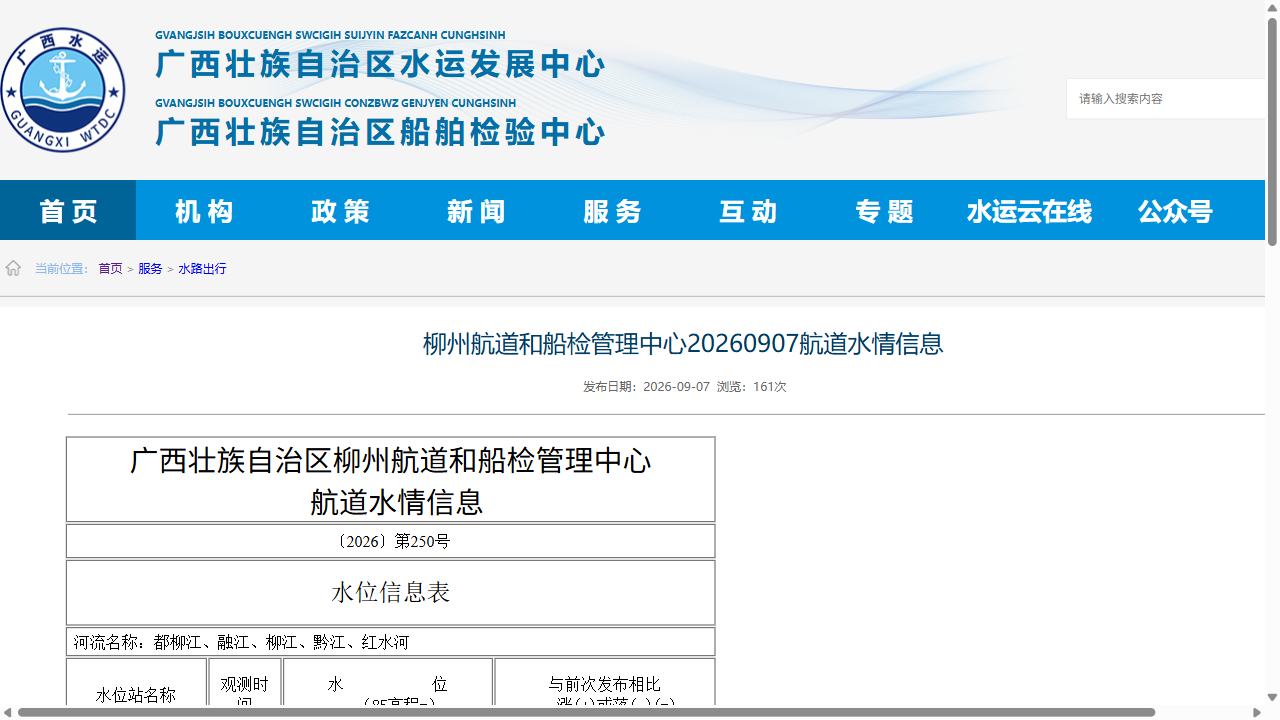
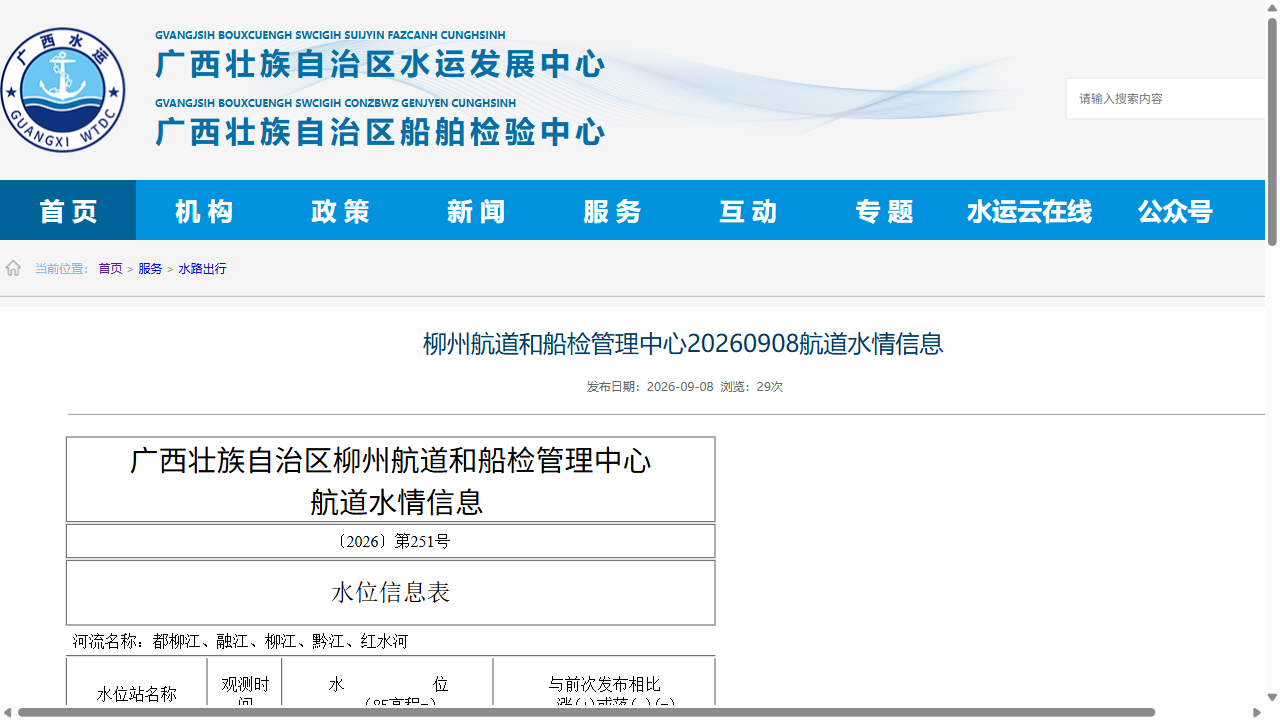
增加预警信息，有超警水位和高水位预警分级。

diff --git a/water_level_report.html b/water_level_report.html
@@ -168,20 +168,20 @@
         <div class="status-section">
             <div class="status-item">
                 <span class="status-label">上游整体情况：</span>
-                <span class="status-value status-red">
-                    水位微微上升↗
+                <span class="status-value status-blue">
+                    水位略微下降↘
                 </span>
             </div>
             <div class="status-item">
                 <span class="status-label">今日梧州水位：</span>
-                <span class="status-value status-blue">
-                    5.69m▼
+                <span class="status-value status-red">
+                    5.86m▲
                 </span>
             </div>
             <div class="status-item">
                 <span class="status-label">近2天梧州水位预报：</span>
                 <span class="status-value status-blue">
-                    5.54m~5.84m 预计水位变化不大 上下小幅波动    
+                    5.46m~5.11m 预计水位略微下降↘  
                 </span>
             </div>
         </div>
@@ -189,7 +189,7 @@
             <div class="status-item">
                 <span class="status-label">🚨水库预警：</span>
                 <span class="warningStatus-value">
-                     
+                    
                 </span>
             </div>
             <div class="status-item">
@@ -201,24 +201,24 @@
         </div>
         
         <div class="image-section">
-            <div class="image-overlay-text wz status-blue">5.69m▼</div>
-            <div class="image-overlay-text status-blue" style="position: absolute; top: 41.4%; left: 78%;">======</div>
-            <div class="image-overlay-text jk status-blue">21.94m▼</div>
+            <div class="image-overlay-text wz status-red">5.86m▲</div>
+            <div class="image-overlay-text status-red" style="position: absolute; top: 41.4%; left: 78%;">======</div>
+            <div class="image-overlay-text jk status-blue">21.75m▼</div>
             <div class="image-overlay-text status-blue" style="position: absolute; top: 41.4%; left: 65.2%;">===</div>
-            <div class="image-overlay-text wx status-red">59.50m▲</div>
-            <div class="image-overlay-text status-red" style="position: absolute; top: 18.9%; left: 23.2%;">===========</div>
-            <div class="image-overlay-text lb status-red">59.77m▲</div>
-            <div class="image-overlay-text status-red" style="position: absolute; top: 18.9%; left: 4%;">===</div>
-            <div class="image-overlay-text lc status-red">62.181m▲</div>
-            <div class="image-overlay-text status-red" style="position: absolute; top: 63.8%; left: 6%;">====</div>
-            <div class="image-overlay-text gg status-blue">33.16m▼</div>
+            <div class="image-overlay-text wx status-blue">59.38m▼</div>
+            <div class="image-overlay-text status-blue" style="position: absolute; top: 18.9%; left: 23.2%;">===========</div>
+            <div class="image-overlay-text lb status-blue">59.72m▼</div>
+            <div class="image-overlay-text status-blue" style="position: absolute; top: 18.9%; left: 4%;">===</div>
+            <div class="image-overlay-text lc status-blue">61.896m▼</div>
+            <div class="image-overlay-text status-blue" style="position: absolute; top: 63.8%; left: 6%;">====</div>
+            <div class="image-overlay-text gg status-blue">32.65m▼</div>
             <div class="image-overlay-text status-blue" style="position: absolute; top: 63.8%; left: 28.5%;">============</div>
-            <div class="image-overlay-text" style="position: absolute; top: 43%; left: 86.5%;font-size:180%"> </div>
-            <div class="image-overlay-text" style="position: absolute; top: 44%; left: 69.67%;font-size:180%"> </div>
-            <div class="image-overlay-text" style="position: absolute; top: 20.5%; left: 37.9%;font-size:180%"> </div>
-            <div class="image-overlay-text" style="position: absolute;top: 20.5%;left: 8.6%;font-size:180%"> </div>
-            <div class="image-overlay-text" style="position: absolute; top: 65%; left: 12.1%;font-size:180%"> </div>
-            <div class="image-overlay-text" style="position: absolute; top: 65%; left: 45%;font-size:180%"> </div>
+            <div class="image-overlay-text" style="position: absolute; top: 42.5%; left: 86.5%;font-size:200%"> </div>
+            <div class="image-overlay-text" style="position: absolute; top: 42.5%; left: 69.67%;font-size:200%"> </div>
+            <div class="image-overlay-text" style="position: absolute; top: 20%; left: 37.9%;font-size:200%"> </div>
+            <div class="image-overlay-text" style="position: absolute;top: 20%;left: 8.6%;font-size:200%"> </div>
+            <div class="image-overlay-text" style="position: absolute; top: 65%; left: 12%;font-size:200%"> </div>
+            <div class="image-overlay-text" style="position: absolute; top: 65%; left: 45%;font-size:200%"> </div>
             <img src="river.png" alt="西江流域图">
         </div>
         
@@ -308,13 +308,23 @@
                         <td>62.181▲</td>
                     </tr>
 
+                    <tr>
+                        <td>2026-09-08 8:00</td>
+                        <td>5.86▲</td>
+                        <td>21.75▼</td>
+                        <td>32.65▼</td>
+                        <td>59.38▼</td>
+                        <td>59.72▼</td>
+                        <td>61.896▼</td>
+                    </tr>
+
                 </tbody>
             </table>
         </div>
         
         <div class="timestamp">
-            报告生成时间: 2026-09-07 17:31:16<br>
-            数据记录数: 7 条
+            报告生成时间: 2026-09-08 09:59:27<br>
+            数据记录数: 8 条
         </div>
     </div>
     
@@ -323,11 +333,11 @@
         new Chart(ctx, {
             type: 'line',
             data: {
-                labels: ["2026-08-31 8:00", "2026-09-01 8:00", "2026-09-02 8:00", "2026-09-03 8:00", "2026-09-04 8:00", "2026-09-06 8:00", "2026-09-07 8:00"],
+                labels: ["2026-08-31 8:00", "2026-09-01 8:00", "2026-09-02 8:00", "2026-09-03 8:00", "2026-09-04 8:00", "2026-09-06 8:00", "2026-09-07 8:00", "2026-09-08 8:00"],
                 datasets: [
                 {
                     label: '梧州',
-                    data: [12.81, 12.72, 11.36, 8.12, 5.42, 6.21, 5.69],
+                    data: [12.81, 12.72, 11.36, 8.12, 5.42, 6.21, 5.69, 5.86],
                     borderColor: 'rgb(255, 99, 132)',
                     backgroundColor: 'rgb(255, 99, 132)',
                     tension: 0.1,
@@ -335,7 +345,7 @@
                 },
                 {
                     label: '江口',
-                    data: [27.08, 26.32, 24.43, 22.41, 21.67, 22.02, 21.94],
+                    data: [27.08, 26.32, 24.43, 22.41, 21.67, 22.02, 21.94, 21.75],
                     borderColor: 'rgb(54, 162, 235)',
                     backgroundColor: 'rgb(54, 162, 235)',
                     tension: 0.1,
@@ -343,7 +353,7 @@
                 },
                 {
                     label: '贵港',
-                    data: [44.254, 41.645, 36.88, 33.76, 33.35, 33.37, 33.16],
+                    data: [44.254, 41.645, 36.88, 33.76, 33.35, 33.37, 33.16, 32.65],
                     borderColor: 'rgb(255, 205, 86)',
                     backgroundColor: 'rgb(255, 205, 86)',
                     tension: 0.1,
@@ -351,7 +361,7 @@
                 },
                 {
                     label: '武宣',
-                    data: [59.09, 59.12, 58.48, 58.93, 59.48, 59.46, 59.5],
+                    data: [59.09, 59.12, 58.48, 58.93, 59.48, 59.46, 59.5, 59.38],
                     borderColor: 'rgb(75, 192, 192)',
                     backgroundColor: 'rgb(75, 192, 192)',
                     tension: 0.1,
@@ -359,7 +369,7 @@
                 },
                 {
                     label: '来宾',
-                    data: [59.94, 59.39, 59.13, 59.34, 59.57, 59.42, 59.77],
+                    data: [59.94, 59.39, 59.13, 59.34, 59.57, 59.42, 59.77, 59.72],
                     borderColor: 'rgb(153, 102, 255)',
                     backgroundColor: 'rgb(153, 102, 255)',
                     tension: 0.1,
@@ -367,7 +377,7 @@
                 },
                 {
                     label: '峦城',
-                    data: [64.242, 62.939, 62.306, 62.511, 62.181, 62.113, 62.181],
+                    data: [64.242, 62.939, 62.306, 62.511, 62.181, 62.113, 62.181, 61.896],
                     borderColor: 'rgb(255, 159, 64)',
                     backgroundColor: 'rgb(255, 159, 64)',
                     tension: 0.1,

diff --git a/screenshot.py b/screenshot.py
@@ -312,43 +312,104 @@ def generate_html_report(data):
     latest_luancheng_wSymbol = ' '
     latest_guigang_wSymbol = ' '
 
-    if float(latest_wuzhou_data) > 18:
+    #站点是否需要超警戒线警告
+    s1 = 0
+    if float(latest_wuzhou_data) >= 18.5:
         latest_wuzhou_wSymbol = '🚨'
-        station_warning += '梧州水位很高，'
-    elif float(latest_wuzhou_data) > 13:
+        station_warning += '梧州'
+        s1 = 1
+
+    if float(latest_jiangkou_data) >= 31.7:
+        latest_jiangkou_wSymbol = '🚨'
+        if s1 != 0:
+            station_warning += '、'
+        station_warning += '江口'
+        s1 = 1
+
+    if float(latest_guigang_data) >= 41.2:
+        latest_guigang_wSymbol = '🚨'
+        if s1 != 0:
+            station_warning += '、'
+        station_warning += '贵港'
+        s1 = 1
+
+    if float(latest_luancheng_data) >= 64.2:
+        latest_luancheng_wSymbol = '🚨'
+        if s1 != 0:
+            station_warning += '、'
+        station_warning += '峦城'
+        s1 = 1
+
+    if float(latest_wuxuan_data) >= 61.4:
+        latest_wuxuan_wSymbol = '🚨'
+        if s1 != 0:
+            station_warning += '、'
+        station_warning += '武宣'
+        s1 = 1
+
+    if float(latest_laibing_data) >= 62:
+        latest_laibing_wSymbol = '🚨'
+        if s1 != 0:
+            station_warning += '、'
+        station_warning += '来宾'
+        s1 = 1
+
+    if s1 != 0:
+        station_warning += '水位超警！'
+
+
+    if float(latest_wuzhou_data) >= 13 and float(latest_wuzhou_data) < 18.5:
         latest_wuzhou_wSymbol = '⚠'
         station_warning += '梧州水位较高，'
 
-    if float(latest_jiangkou_data) > 30:
-        latest_jiangkou_wSymbol = '🚨'
-        station_warning += '江口水位很高，'
-    elif float(latest_jiangkou_data) > 25:
+    if float(latest_jiangkou_data) >= 27 and float(latest_jiangkou_data) < 31.7:
         latest_jiangkou_wSymbol = '⚠'
         station_warning += '江口水位较高，'
 
+    #站点是否需要水位快速上涨警告
+    s3 = 0
     if float(latest_wuzhou_change) > 2:
         latest_wuzhou_wSymbol = '🚨'
-        station_warning += '梧州水位快速上涨，'
+        station_warning += '梧州'
+        s3 = 1
 
     if float(latest_jiangkou_change) > 2:
         latest_jiangkou_wSymbol = '🚨'
-        station_warning += '江口水位快速上涨，'
+        if s3 != 0:
+            station_warning += '、'
+        station_warning += '江口'
+        s3 = 1
 
     if float(latest_wuxuan_change) > 2:
         latest_wuxuan_wSymbol = '🚨'
-        station_warning += '武宣水位快速上涨，'
+        if s3 != 0:
+            station_warning += '、'
+        station_warning += '武宣'
+        s3 = 1
 
     if float(latest_laibing_change) > 2:
         latest_laibing_wSymbol = '🚨'
-        station_warning += '来宾水位快速上涨，'
+        if s3 != 0:
+            station_warning += '、'
+        station_warning += '来宾'
+        s3 = 1
 
     if float(latest_luancheng_change) > 2:
         latest_luancheng_wSymbol = '🚨'
-        station_warning += '峦城水位快速上涨，'
+        if s3 != 0:
+            station_warning += '、'
+        station_warning += '峦城'
+        s3 = 1
 
     if float(latest_guigang_change) > 2:
         latest_guigang_wSymbol = '🚨'
-        station_warning += '贵港水位快速上涨，'
+        if s3 != 0:
+            station_warning += '、'
+        station_warning += '贵港'
+        s3 = 1
+
+    if s3 != 0:
+        station_warning += '水位快速上涨！'
 
     if station_warning != ' ':
         station_warning += '请及时注意水位变化，加强船舶调度！'
@@ -380,7 +441,7 @@ def generate_html_report(data):
             <div class="status-item">
                 <span class="status-label">🚨水库预警：</span>
                 <span class="warningStatus-value">
-                    {station_warning}
+                    
                 </span>
             </div>
             <div class="status-item">
@@ -404,12 +465,12 @@ def generate_html_report(data):
             <div class="image-overlay-text status-{latest_luancheng_color}" style="position: absolute; top: 63.8%; left: 6%;">====</div>
             <div class="image-overlay-text gg status-{latest_guigang_color}">{latest_guigang_data}m{latest_guigang_desc}</div>
             <div class="image-overlay-text status-{latest_guigang_color}" style="position: absolute; top: 63.8%; left: 28.5%;">============</div>
-            <div class="image-overlay-text" style="position: absolute; top: 43%; left: 86.5%;font-size:180%">{latest_wuzhou_wSymbol}</div>
-            <div class="image-overlay-text" style="position: absolute; top: 44%; left: 69.67%;font-size:180%">{latest_jiangkou_wSymbol}</div>
-            <div class="image-overlay-text" style="position: absolute; top: 20.5%; left: 37.9%;font-size:180%">{latest_wuxuan_wSymbol}</div>
-            <div class="image-overlay-text" style="position: absolute;top: 20.5%;left: 8.6%;font-size:180%">{latest_laibing_wSymbol}</div>
-            <div class="image-overlay-text" style="position: absolute; top: 65%; left: 12.1%;font-size:180%">{latest_luancheng_wSymbol}</div>
-            <div class="image-overlay-text" style="position: absolute; top: 65%; left: 45%;font-size:180%">{latest_guigang_wSymbol}</div>
+            <div class="image-overlay-text" style="position: absolute; top: 42.5%; left: 86.5%;font-size:200%">{latest_wuzhou_wSymbol}</div>
+            <div class="image-overlay-text" style="position: absolute; top: 42.5%; left: 69.67%;font-size:200%">{latest_jiangkou_wSymbol}</div>
+            <div class="image-overlay-text" style="position: absolute; top: 20%; left: 37.9%;font-size:200%">{latest_wuxuan_wSymbol}</div>
+            <div class="image-overlay-text" style="position: absolute;top: 20%;left: 8.6%;font-size:200%">{latest_laibing_wSymbol}</div>
+            <div class="image-overlay-text" style="position: absolute; top: 65%; left: 12%;font-size:200%">{latest_luancheng_wSymbol}</div>
+            <div class="image-overlay-text" style="position: absolute; top: 65%; left: 45%;font-size:200%">{latest_guigang_wSymbol}</div>
             <img src="river.png" alt="西江流域图">
         </div>
         
@@ -717,7 +778,7 @@ def main():
         
         # 添加或更新数据
         if new_data_time:
-            # 计算上游整体情况（来宾、武宣、贵港、峦城）
+            # 计算上游整体情况（来宾、武宣、贵港、峦城、江口）
             upstream_stations = ['来宾', '武宣', '贵港', '峦城', '江口']
             upstream_change_sum = 0
             up_change_value_sum = 0
